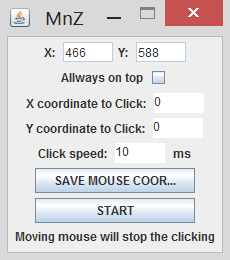
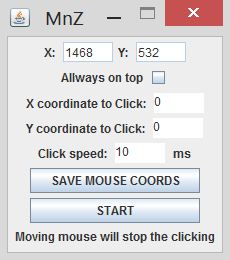
v1

diff --git a/src/Buttons.java b/src/Buttons.java
@@ -7,7 +7,7 @@ import javax.swing.*;
 public class Buttons {
 	
 	static JButton saveCoords = new JButton ("SAVE MOUSE COORDS");
-	static Dimension buttonSize = new Dimension(160, 25);
+	static Dimension buttonSize = new Dimension(170, 25);
 		
 	public static Component start(){
 		JButton start = new JButton ("START");
